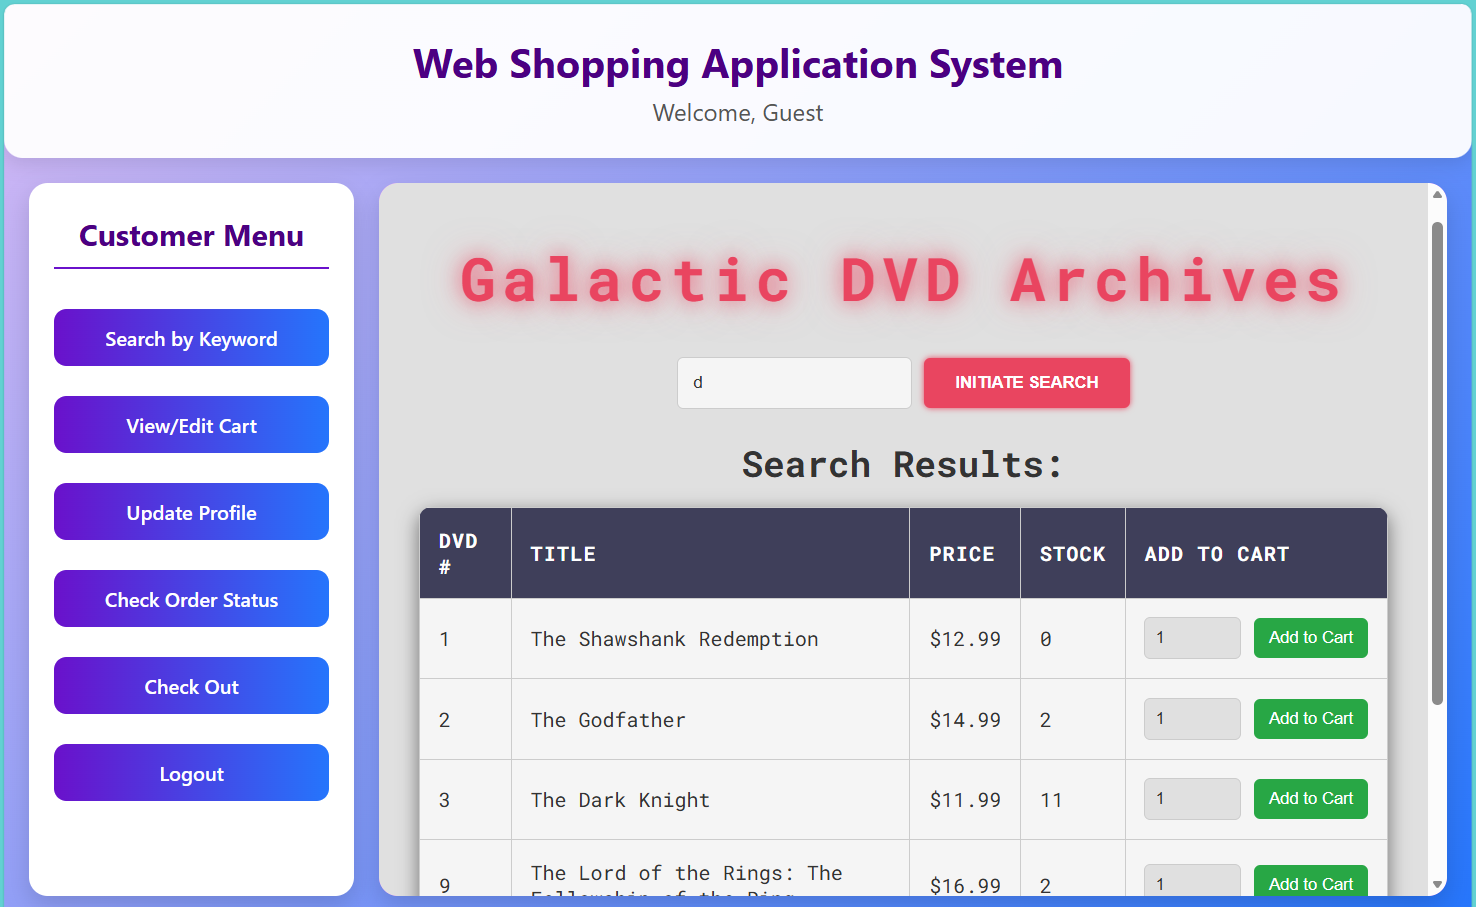
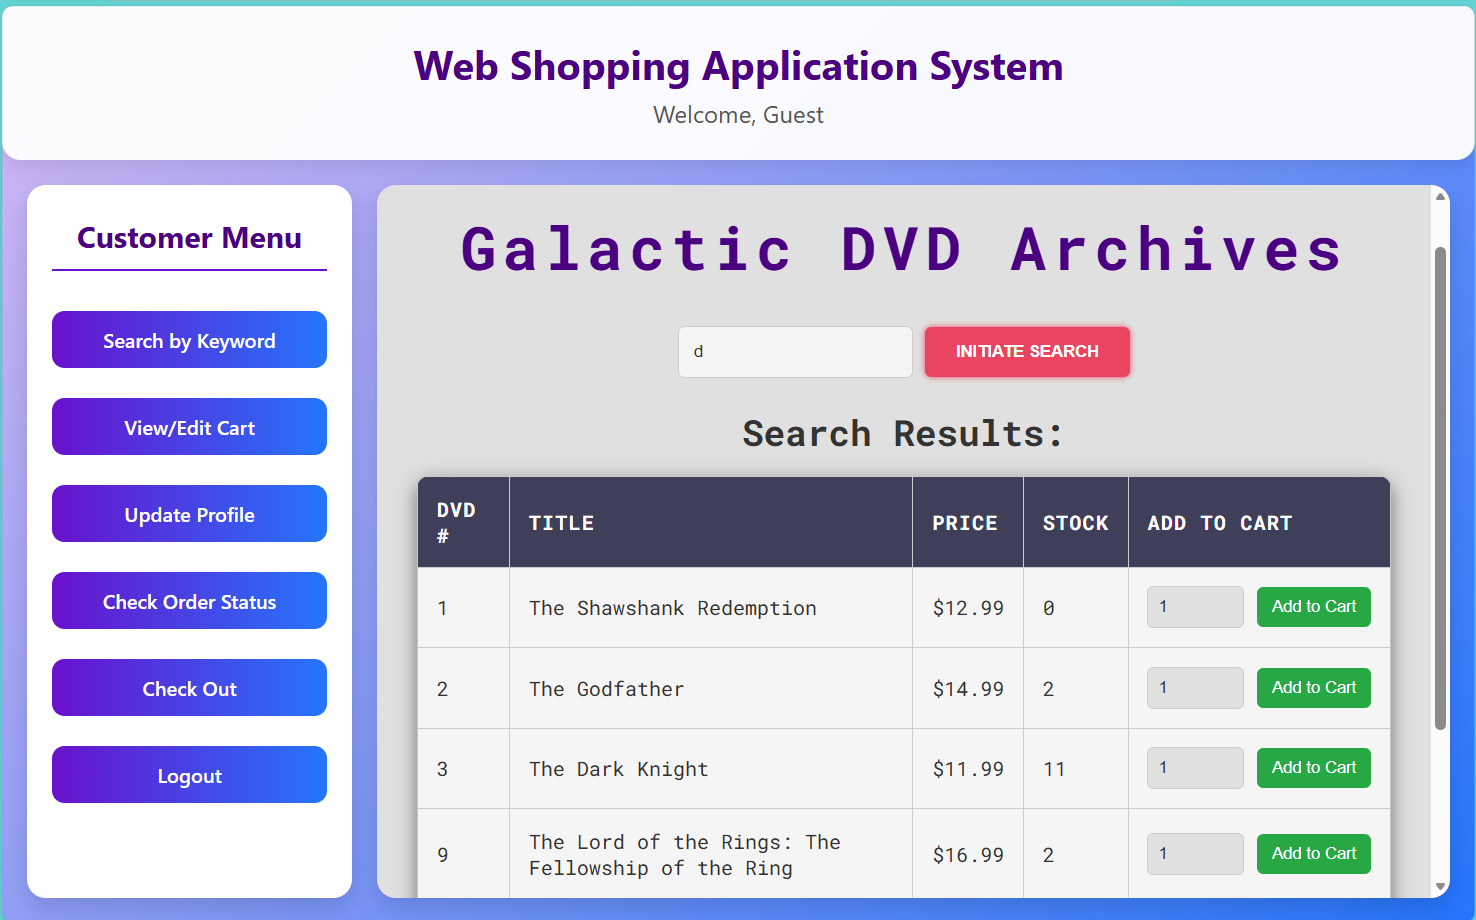
bug fix

diff --git a/search_products.html b/search_products.html
@@ -38,15 +38,17 @@
     text-align: center;
     font-size: 3rem;
     letter-spacing: 5px;
-    color: var(--accent-color);
-    text-shadow: 0 0 15px rgba(233, 69, 96, 0.7), 0 0 30px rgba(233, 69, 96, 0.5);
+    color: #4B0082;
+    /* text-shadow: 0 0 15px rgba(233, 69, 96, 0.7), 0 0 30px rgba(233, 69, 96, 0.5); */
     margin-bottom: 2rem;
     font-weight: 700;
     transition: text-shadow 0.3s ease-in-out;
+ 
+       
 }
 
 h1:hover {
-    text-shadow: 0 0 20px rgba(233, 69, 96, 0.9), 0 0 40px rgba(233, 69, 96, 0.7), 0 0 60px rgba(233, 69, 96, 0.3);
+    text-shadow: #4B0082;
 }
 
         .search-form {

diff --git a/search_products.php b/search_products.php
@@ -54,15 +54,14 @@ if (isset($_GET['status'])) {
             text-align: center;
             font-size: 3rem;
             letter-spacing: 5px;
-            color: var(--accent-color);
-            text-shadow: 0 0 15px rgba(233, 69, 96, 0.7), 0 0 30px rgba(233, 69, 96, 0.5);
+            color: #4B0082;
             margin-bottom: 2rem;
             font-weight: 700;
             transition: text-shadow 0.3s ease-in-out;
         }
 
         h1:hover {
-            text-shadow: 0 0 20px rgba(233, 69, 96, 0.9), 0 0 40px rgba(233, 69, 96, 0.7), 0 0 60px rgba(233, 69, 96, 0.3);
+            text-shadow: #4B0082;
         }
 
         h2 {
